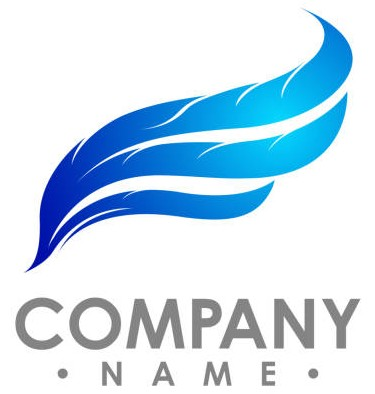
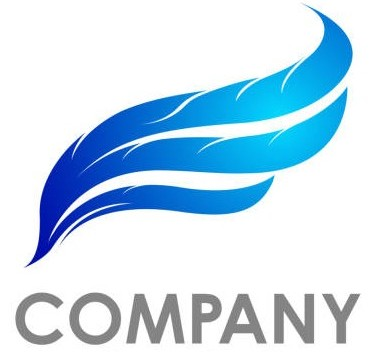
update

Changed region(s): [[0.0293, 0.1562, 0.968, 1.0], [0.792, 0.0, 0.9387, 0.0938], [0.8213, 0.125, 0.8507, 0.1562]]

diff --git a/css/pro-2.css b/css/pro-2.css
@@ -16,9 +16,13 @@ a{
 p{
     margin: 0;
 }
+/* header{
+    position: sticky;
+    top: 39px;
+    z-index: 999;
+} */
 .cmmn-btn{
-    width: 138px;
-    height: 54px;
+    padding: 16px 40px;
     background-color: rgba(98, 69, 213, 0.2);
     color: #192252;
     border: none;
@@ -47,15 +51,19 @@ p{
 /* navbar starts */
 .menu{
     margin: 39px 120px;
+    background-color: transparent;
     display: flex;
     justify-content: space-between;
     align-items: center;
+    backdrop-filter: blur(2px);
 }
 .logo img{
-    width: 148px;
+    width: 100%;
 }
 .menu ul{
+    width: 45%;
     display: flex;
+    justify-content: space-between;
     gap: 80px;
 }
 .menu ul li{
@@ -66,18 +74,55 @@ p{
 .menu ul li a{
     color: black;
     transition: all linear .4s;
+    position: relative;
 }
 .menu ul li a:hover{
     color: blue;
+}
+.menu ul li a::after{
+    content: "";
+    width: 0;
+    height: 2px;
+    background-color: blue;
+    position: absolute;
+    top: 103%;
+    left: 50%;
+    transform: translateX(-50%);
+    transition: all linear .3s;
+}
+.menu ul li a:hover::after{
+    width: 105%;
 }
 
 /* navbar ends */
 
 /* banner css starts */
 #banner{
-    margin: 115px 120px 0;
+    /* margin: 115px 120px 0; */
+    margin: 0;
 }
+/* shade css starts */
+.shade-1, .shade-2, .shade-3{
+    position: absolute;
+}
+.shade-1{
+    top: 0;
+    right: 0;
+    z-index: -90;
+}
+.shade-2{
+    top: 0;
+    right: 0%;
+    z-index: -94;
+}
+.shade-3{
+    top: 25%;
+    left: 0;
+    z-index: -94;
+}
+/* shade css ends */
 .banner-part{
+    margin: 115px 120px 0;
     display: flex;
     justify-content: space-between;
     gap: 94px;
@@ -129,8 +174,8 @@ h1{
 .counter-sec{
     margin: 100px 0 32px;
     padding: 48px;
-    width: 1240px;
-    height: 154px;
+    width: 100%;
+    max-width: 1240px;
     background-color: rgba(255, 255, 255, 0.08);
     color: white;
     display: flex;
@@ -189,9 +234,9 @@ p.dash{
     gap: 24px;
 }
 .cards{
-    padding: 24px;
-    width: 368px;
-    height: 188px;
+    padding: 30px;
+    width: 100%;
+    max-width: 368px;
     background-color: #2c1a74;
     border-radius: 16px;
     transition: all linear .3s;
@@ -290,26 +335,15 @@ p.dash{
     margin-top: 100px;
 }
 .video img{
-    width: 600px;
+    max-width: 600px;
     height: 600px;
     object-fit: cover;
     border-radius: 24px;
+    transition: all ease-in-out 1s;
 }
-/* .play-btn{
-    width: 120px;
-    height: 120px;
-    background-color: #6d6d6d;
-    border-radius: 50%;
-    position: relative;
+.video img:hover{
+    transform: rotateY(180deg);
 }
-.play-btn i{
-    position: absolute;
-    top: 50%;
-    left: 50%;
-    font-size: 40px;
-    color: #192252;
-    transform: translate(-50%, -50%);
-} */
 .offer-details h2{
     margin-top: 30px;
     width: 514px;
@@ -320,7 +354,7 @@ p.dash{
 }
 .offer-details p{
     margin-top: 24px;
-    width: 421px;
+    max-width: 421px;
     color: #848fac;
     font-size: 18px;
     font-weight: 500;
@@ -364,11 +398,20 @@ p.dash{
 .companies{
     display: flex;
     align-items: center;
-    gap: 80px;
+    gap: 100px;
 }
 .company{
-    width: 140px;
+    width: 100%;
     object-fit: cover;
+}
+.company1, .company5{
+    max-width: 90px;
+}
+.company2, .company4{
+    max-width: 100px;
+}
+.company3{
+    max-width: 150px;
 }
 
 /* pay & recieve css ends */
@@ -402,7 +445,6 @@ p.dash{
     margin-top: 24px;
     padding: 24px;
     width: 515px;
-    height: 118px;
     background-color: white;
     display: flex;
     justify-content: space-between;
@@ -414,6 +456,7 @@ p.dash{
 }
 .packages:hover{
     background-color: #6245d5;
+    transform: translateY(-15%);
 }
 .para{
     display: flex;
@@ -626,23 +669,33 @@ p.dash{
     border: 1.5px solid rgba(255, 255, 255, 0.65);
     border-radius: 50%;
     cursor: pointer;
+    transition: all linear .3s;
 }
 .review-slider-btn i{
     color: white;
     font-size: 22px;
 }
+.review-slider-btn:hover{
+    background-color: white;
+}
+.review-slider-btn:hover i{
+    color: #192252;
+}
+
+/* form starts */
 .form-sec{
     margin-top: 124px;    
     padding: 80px;
     width: 600px;
-    height: 678px;
     background-color: rgba(255, 255, 255, 0.12);
     display: flex;
-    /* justify-content: center; */
     align-items: center;
     gap: 24px;
     flex-direction: column;
     border-radius: 24px;
+}
+.form-sec img{
+    width: 16%;
 }
 .form-sec h3{
     color: white;
@@ -693,8 +746,6 @@ p.dash{
 }
 .form-btn{
     margin-top: 16px;
-    width: 440px;
-    height: 64px;
     background-color: rgba(252, 152, 112, 0.3);
     color: white;
     border: none;
@@ -710,7 +761,24 @@ p.dash{
 }
 .free-trial a{
     color: white;
+    position: relative;
 }
+.free-trial a::after{
+    content: "";
+    width: 0;
+    height: 1px;
+    background-color: white;
+    position: absolute;
+    top: 105%;
+    left: 50%;
+    transform: translateX(-50%);
+    transition: all linear .3s;
+}
+.free-trial a:hover::after{
+    width: 105%;
+}
+
+/* form ends */
 
 /* review css ends */
 
@@ -726,9 +794,12 @@ footer{
     justify-content: space-between;
     align-items: flex-start;
 }
+.foot-img img{
+    width: 58%;
+}
 .foot-img p{
     margin-top: 8px;
-    width: 332px;
+    max-width: 332px;
     color: rgba(255, 255, 255, 0.64);
     font-size: 18px;
     font-weight: 500;
@@ -758,6 +829,21 @@ footer{
     font-size: 18px;
     font-weight: 500;
     text-transform: capitalize;
+    position: relative;
+}
+.links ul li a::after{
+    content: "";
+    width: 0;
+    height: 2px;
+    background-color: white;
+    position: absolute;
+    top: 105%;
+    left: 50%;
+    transform: translateX(-50%);
+    transition: all linear .3s;
+}
+.links ul li a:hover::after{
+    width: 105%;
 }
 .copyright-sec{
     margin: 36px 0;

diff --git a/index.html b/index.html
@@ -39,12 +39,23 @@
     <main>
         <!-- banner section starts -->
         <section id="banner">
+        <!-- shadow img part starts -->
+         <div class="shade-1">
+            <img src="./img/ellipse 1.png" alt="shade-1">
+         </div>
+         <div class="shade-2">
+            <img src="./img/ellipse 2.png" alt="shade-2">
+         </div>
+         <div class="shade-3">
+            <img src="./img/ellipse 3.png" alt="shade-3">
+         </div>
+        <!-- shadow img part endss -->
             <div class="container banner-part">
                 <div class="part-1">
                     <h1>manage your money with doWith</h1>
                     <p>Only wallet you need to carry that allows making online payment.</p>
                     <div class="banner-btns">
-                        <button class="cmmn-btn">request demo</button>
+                        <button class="cmmn-btn" type="reset">request demo</button>
                         <button class="cmmn-btn">learn more</button>
                     </div>
                 </div>
@@ -169,11 +180,11 @@
                 <div class="support">
                     <p>Support by</p>
                     <div class="companies">
-                        <img src="./img/c1.jpg" alt="company" class="company">
-                        <img src="./img/c2.jpg" alt="company" class="company">
-                        <img src="./img/c3.jpg" alt="company" class="company">
-                        <img src="./img/c4.jpg" alt="company" class="company">
-                        <img src="./img/c5.jpg" alt="company" class="company">
+                        <img src="./img/c1.jpg" alt="company" class="company1 company">
+                        <img src="./img/c2.jpg" alt="company" class="company2 company">
+                        <img src="./img/c3.jpg" alt="company" class="company3 company">
+                        <img src="./img/c4.jpg" alt="company" class="company4 company">
+                        <img src="./img/c5.jpg" alt="company" class="company5 company">
                     </div>
                 </div>
             </div>
@@ -312,7 +323,7 @@
                         <input type="text" name="mail" class="mail" placeholder="your mail id">
                         <label for="message">message</label>
                         <textarea name="message" class="txtarea" placeholder="your opinion"></textarea>
-                        <button class="form-btn">request demo</button>
+                        <button class="form-btn cmmn-btn">request demo</button>
                     </form>
                     <small class="free-trial">
                         <a href="#">or start free trial</a>